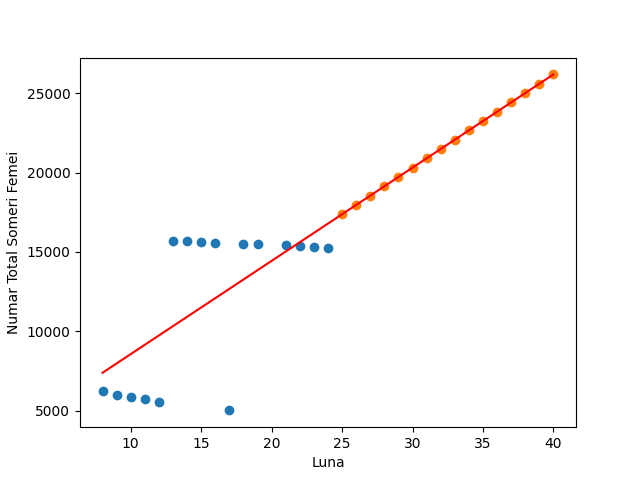
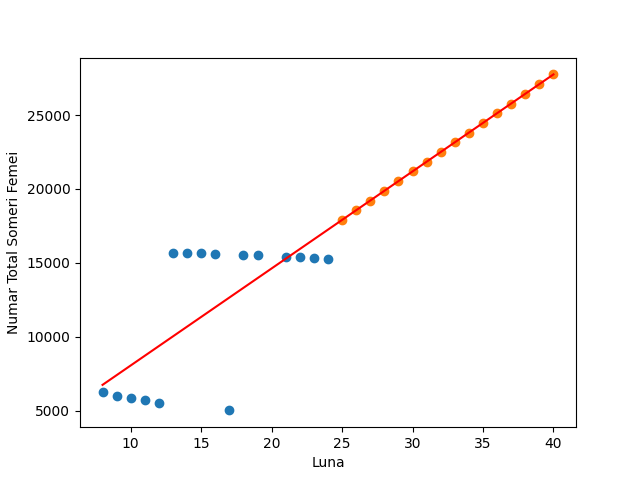
Updated PredictionApp

diff --git a/PredictionApp/linear_regression.py b/PredictionApp/linear_regression.py
@@ -1,115 +1,124 @@
-from matplotlib import pyplot as plt;
+from matplotlib import pyplot as plt
+import math
+import sys
 
 class LinearRegression:
+    __learning_rate = 0.005
+
     @staticmethod
     def linear_regression(datalist, epochs, label_name):
-        w1 = (datalist[0][1] - datalist[1][1]) / (datalist[0][0] - datalist[1][0]);
-        w0 = datalist[0][1] - datalist[0][0] * w1;
+        w1 = (datalist[0][1] - datalist[1][1]) / (datalist[0][0] - datalist[1][0])
+        w0 = datalist[0][1] - datalist[0][0] * w1
 
         for epoch in range(epochs):
-            print('Epoch', epoch, '- ', label_name);	
+            #print('Epoch', epoch, '- ', label_name)	
 
-            w0Gradient = 0;
-            w1Gradient = 0;
+            w0Gradient = 0
+            w1Gradient = 0
             for data in datalist:
-                w0Gradient += -2 * (data[1] - (w1 * data[0] + w0));
-                w1Gradient += -2 * data[0] * (data[1] - (w1 * data[0] + w0));
-            w0Gradient /= len(datalist);
-            w1Gradient /= len(datalist);
+                w0Gradient += (data[1] - (w0 + w1 * data[0]))
+                w1Gradient += (data[1] - (w0 + w1 * data[0])) * data[0]
+            w0Gradient /= -len(datalist)
+            w1Gradient /= -len(datalist)
 
-            learning_rate = LinearRegression.compute_optimal_learning_rate();
+            if w0Gradient != 0:
+                w0 -= LinearRegression.__learning_rate * w0Gradient
+            if w1Gradient != 0:
+                w1 -= LinearRegression.__learning_rate * w1Gradient
 
-            w0 -= w0Gradient * learning_rate;
-            w1 -= w1Gradient * learning_rate;
-            print('w0 =', w0);
-            print('w1 =', w1);
-            currentMSE = LinearRegression.compute_MSE(datalist, w0, w1);
-            print('MSE =', currentMSE);
-            print();
+            #print('Dw0 =', w0Gradient)
+            #print('Dw1 =', w1Gradient)
+            #print('w0 =', w0)
+            #print('w1 =', w1)
+            #print('MSE =', currentMSE)
+            #print()
 
-        return [w0, w1];
+        print(epochs, 'epochs')
+        print('w0 gradient =', w0Gradient)
+        print('w1 gradient =', w1Gradient)
+        print('w0 =', w0)
+        print('w1 =', w1)
+        print('MSE =', LinearRegression.compute_MSE(datalist, w0, w1))
+
+        return [w0, w1]
 
     @staticmethod
     def get_datalist_from_dataframe(dataframe):
-        dataframe = dataframe.dropna();
-        datalist = dataframe.values.tolist();
+        dataframe = dataframe.dropna()
+        datalist = dataframe.values.tolist()
 
-        return datalist;
+        return datalist
 
     @staticmethod
     def compute_MSE(datalist, w0, w1):
-        mse = 0;
+        mse = 0
         for data in datalist:
-            prediction = data[1];
-            computed_value = w0 + w1 * data[0];
+            prediction = data[1]
+            computed_value = w0 + w1 * data[0]
 
-            err = prediction - computed_value;
-            l2loss = err * err;
-            mse += l2loss;
-        mse /= len(datalist);
+            err = prediction - computed_value
+            l2loss = err * err
+            mse += l2loss
+        mse /= len(datalist)
 
-        return mse;
-
-    @staticmethod
-    def compute_optimal_learning_rate():
-        return 0.001;
+        return mse
 
     @staticmethod
     def plot_model(w0, w1, datalist, feature_name, label_name):
-        feature = [];
-        label = [];
+        feature = []
+        label = []
         for data in datalist:
-            feature.append(data[0]);
-            label.append(data[1]);
+            feature.append(data[0])
+            label.append(data[1])
 
-        plt.xlabel(feature_name);
-        plt.ylabel(label_name);
+        plt.xlabel(feature_name)
+        plt.ylabel(label_name)
 
-        plt.scatter(feature, label);
+        plt.scatter(feature, label)
 
-        feature_prediction = [];
-        label_prediction = [];
+        feature_prediction = []
+        label_prediction = []
         for predicted_points_iterator in range(len(feature)):
-            xValue = feature[len(feature) - 1] + predicted_points_iterator + 1;
-            yValue = w0 + (w1 * xValue);
-            feature_prediction.append(xValue);
-            label_prediction.append(yValue);
+            xValue = feature[len(feature) - 1] + predicted_points_iterator + 1
+            yValue = w0 + (w1 * xValue)
+            feature_prediction.append(xValue)
+            label_prediction.append(yValue)
 
-        feature_prediction_not_null_label_points = [];
-        feature_prediction_null_label_points = [];
-        started_null_points = False;
+        feature_prediction_not_null_label_points = []
+        feature_prediction_null_label_points = []
+        started_null_points = False
         for feature_prediction_point in range(len(feature_prediction)):
             if label_prediction[feature_prediction_point] < 0:
-                label_prediction[feature_prediction_point] = 0;
-                started_null_points = True;
+                label_prediction[feature_prediction_point] = 0
+                started_null_points = True
             
             if started_null_points == True:
-                feature_prediction_null_label_points.append(feature_prediction[feature_prediction_point]);
+                feature_prediction_null_label_points.append(feature_prediction[feature_prediction_point])
             else:
-                feature_prediction_not_null_label_points.append(feature_prediction[feature_prediction_point]);
+                feature_prediction_not_null_label_points.append(feature_prediction[feature_prediction_point])
 
-        joined_feature = feature;
-        joined_feature.extend(feature_prediction_not_null_label_points);
+        joined_feature = feature
+        joined_feature.extend(feature_prediction_not_null_label_points)
 
-        plt.scatter(feature_prediction, label_prediction);
+        plt.scatter(feature_prediction, label_prediction)
 
-        x0 = joined_feature[0];
-        y0 = w0 + (w1 * x0);
-        x1 = joined_feature[-1];
-        y1 = w0 + (w1 * x1);
-        plt.plot([x0, x1], [y0, y1], c = 'r');
+        x0 = joined_feature[0]
+        y0 = w0 + (w1 * x0)
+        x1 = joined_feature[-1]
+        y1 = w0 + (w1 * x1)
+        plt.plot([x0, x1], [y0, y1], c = 'r')
 
         if len(feature_prediction_null_label_points) > 0:
-            x0 = feature_prediction_not_null_label_points[len(feature_prediction_not_null_label_points) - 1];
-            y0 = w0 + (w1 * x0);
-            x1 = feature_prediction_null_label_points[0];
-            y1 = 0;
-            plt.plot([x0, x1], [y0, y1], c = 'r');
+            x0 = feature_prediction_not_null_label_points[len(feature_prediction_not_null_label_points) - 1]
+            y0 = w0 + (w1 * x0)
+            x1 = feature_prediction_null_label_points[0]
+            y1 = 0
+            plt.plot([x0, x1], [y0, y1], c = 'r')
 
-            x0 = feature_prediction_null_label_points[0];
-            y0 = 0;
-            x1 = feature_prediction_null_label_points[-1];
-            y1 = 0;
-            plt.plot([x0, x1], [y0, y1], c = 'r');
+            x0 = feature_prediction_null_label_points[0]
+            y0 = 0
+            x1 = feature_prediction_null_label_points[len(feature_prediction_null_label_points) - 1]
+            y1 = 0
+            plt.plot([x0, x1], [y0, y1], c = 'r')
 
-        return plt;
+        return plt

diff --git a/PredictionApp/unemployed_data.py b/PredictionApp/unemployed_data.py
@@ -1,62 +1,62 @@
-import re;
-import pandas as pd;
-import linear_regression as lr;
+import re
+import pandas as pd
+import linear_regression as lr
 
 class UnemployedData:
     class DocumentObject:
-        name = None;
-        value = None;
-        month = None;
+        name = None
+        value = None
+        month = None
 
     @staticmethod
     def extract_data(input_document_format, column_number, epochs, plot_file_format, output_file_format, feature_name, label_name):
-        years = [2018, 2019];
-        months = ['ianuarie', 'februarie', 'martie', 'aprilie', 'mai', 'iunie', 'iulie', 'august', 'septembrie', 'octombrie', 'noiembrie', 'decembrie'];
+        years = [2018, 2019]
+        months = ['ianuarie', 'februarie', 'martie', 'aprilie', 'mai', 'iunie', 'iulie', 'august', 'septembrie', 'octombrie', 'noiembrie', 'decembrie']
 
-        documents = UnemployedData.get_unemployed_data(input_document_format, years, months);
-        dataframe = UnemployedData.map_dataframe(documents, column_number);
+        documents = UnemployedData.get_unemployed_data(input_document_format, years, months)
+        dataframe = UnemployedData.map_dataframe(documents, column_number)
 
-        datalist = lr.LinearRegression.get_datalist_from_dataframe(dataframe);
-        [w0, w1] = lr.LinearRegression.linear_regression(datalist, epochs, label_name);
+        datalist = lr.LinearRegression.get_datalist_from_dataframe(dataframe)
+        [w0, w1] = lr.LinearRegression.linear_regression(datalist, epochs, label_name)
 
-        plot = lr.LinearRegression.plot_model(w0, w1, datalist,  feature_name, label_name);
-        plot.savefig(plot_file_format);
-        plot.close();
+        plot = lr.LinearRegression.plot_model(w0, w1, datalist,  feature_name, label_name)
+        plot.savefig(plot_file_format)
+        plot.close()
 
-        output_file = open(output_file_format, 'w');
-        output_file_content = 'w0 = %f\nw1 = %f' % (w0, w1);
-        output_file.write(output_file_content);
-        output_file.close();
+        output_file = open(output_file_format, 'w')
+        output_file_content = 'w0 = %f\nw1 = %f' % (w0, w1)
+        output_file.write(output_file_content)
+        output_file.close()
 
     @staticmethod
     def get_unemployed_data(document_format, years, months):
-        documents = [];
+        documents = []
         for year in range(len(years)):
             for month in range(len(months)):
                 try:
-                    document = UnemployedData.DocumentObject();
-                    document.name = document_format % (months[month], years[year]);
-                    document.value = pd.read_csv(document.name);
-                    document.month = year * 12 + month + 1;
+                    document = UnemployedData.DocumentObject()
+                    document.name = document_format % (months[month], years[year])
+                    document.value = pd.read_csv(document.name)
+                    document.month = year * 12 + month + 1
                     
-                    documents.append(document);
+                    documents.append(document)
                 except:
-                    pass;
+                    pass
         
-        return documents;
+        return documents
 
     @staticmethod
     def map_dataframe(documents, column_number):
         luni = []
-        somaj = [];
+        somaj = []
         for document in documents:
-            luni.append(document.month);
+            luni.append(document.month)
             
-            valoare_somaj = document.value.iloc[:, 1].tail(column_number).head(1).iloc[-1];
-            valoare_somaj = int(re.sub('[^0-9]', '', str(valoare_somaj)));
-            somaj.append(valoare_somaj);
+            valoare_somaj = document.value.iloc[:, 1].tail(column_number).head(1).iloc[-1]
+            valoare_somaj = int(re.sub('[^0-9]', '', str(valoare_somaj)))
+            somaj.append(valoare_somaj)
 
-        dataframe_dictionary = {'Label': luni, 'Feature': somaj};
-        dataframe = pd.DataFrame(data = dataframe_dictionary);
+        dataframe_dictionary = {'Label': luni, 'Feature': somaj}
+        dataframe = pd.DataFrame(data = dataframe_dictionary)
 
-        return dataframe;
+        return dataframe

diff --git a/PredictionApp/predict.py b/PredictionApp/predict.py
@@ -1,20 +1,24 @@
-import unemployed_data as ud;
+import unemployed_data as ud
 
-input_document_format = './Data/medii-somaj-%s-%d.csv';
-epochs = 10000;
+input_document_format = './Data/medii-somaj-%s-%d.csv'
+epochs = 100000
 
-plot_folder = './Plots/';
-output_folder = './Output/';
-plot_file_extension = '.png';
-output_file_extension = '.data';
-feature_name = 'Luna';
+plot_folder = './Plots/'
+output_folder = './Output/'
+plot_file_extension = '.png'
+output_file_extension = '.data'
+feature_name = 'Luna'
 
 file_formats = ['numar-total-someri', 'numar-total-someri-femei', 'numar-total-someri-barbati', 'numar-total-someri-din-mediul-urban', 'numar-someri-femei-din-mediul-urban', 'numar-someri-barbati-din-mediul-urban',
-    'numar-total-someri-din-mediul-rural', 'numar-someri-femei-din-mediul-rural', 'numar-someri-barbati-din-mediul-rural'];
+    'numar-total-someri-din-mediul-rural', 'numar-someri-femei-din-mediul-rural', 'numar-someri-barbati-din-mediul-rural']
 label_names = ['Numar Total Someri', 'Numar Total Someri Femei', 'Numar Total Someri Barbati', 'Numar Total Someri Din Mediul Urban', 'Numar Someri Femei Din Mediul Urban', 'Numar Someri Barbati Din Mediul Urban',
-    'Numar Total Someri Din Mediul Rural', 'Numar Someri Femei Din Mediul Rural', 'Numar Someri Barbati Din Mediul Rural'];
+    'Numar Total Someri Din Mediul Rural', 'Numar Someri Femei Din Mediul Rural', 'Numar Someri Barbati Din Mediul Rural']
 
 for file_format_iterator in range(len(file_formats)):
-    plot_file_format = '%s%s%s' % (plot_folder, file_formats[file_format_iterator], plot_file_extension);
-    output_file_format = '%s%s%s' % (output_folder, file_formats[file_format_iterator], output_file_extension);
-    ud.UnemployedData.extract_data(input_document_format, file_format_iterator + 1, epochs, plot_file_format, output_file_format, feature_name, label_names[file_format_iterator]);
+    print()
+    print()
+    print(label_names[file_format_iterator])
+    print()
+    plot_file_format = '%s%s%s' % (plot_folder, file_formats[file_format_iterator], plot_file_extension)
+    output_file_format = '%s%s%s' % (output_folder, file_formats[file_format_iterator], output_file_extension)
+    ud.UnemployedData.extract_data(input_document_format, file_format_iterator + 1, epochs, plot_file_format, output_file_format, feature_name, label_names[file_format_iterator])

diff --git a/PredictionApp/Data/Utility/fetch_data.py b/PredictionApp/Data/Utility/fetch_data.py
@@ -1,0 +1,27 @@
+import urllib.request
+import json
+import ssl
+
+ssl._create_default_https_context = ssl._create_unverified_context
+
+with urllib.request.urlopen('https://data.gov.ro/api/3/action/package_search?fq=organization:agentia-nationala-pentru-ocuparea-fortei-de-munca') as json_url:
+    packages_count = json.loads(json_url.read())['result']['count']
+
+with urllib.request.urlopen(f'https://data.gov.ro/api/3/action/package_search?fq=organization:agentia-nationala-pentru-ocuparea-fortei-de-munca&rows={packages_count}') as json_url:
+    packages_list = json.loads(json_url.read())['result']['results']
+
+resources_list = [
+    resource
+    for package in packages_list
+        if ('somaj' in package['name'].lower()) 
+        for resource in package['resources']
+            if ('csv' in resource['format'].lower())
+]
+
+print(
+    * [
+        resource['name']
+        for resource in resources_list
+    ],
+    sep = '\n'
+);
